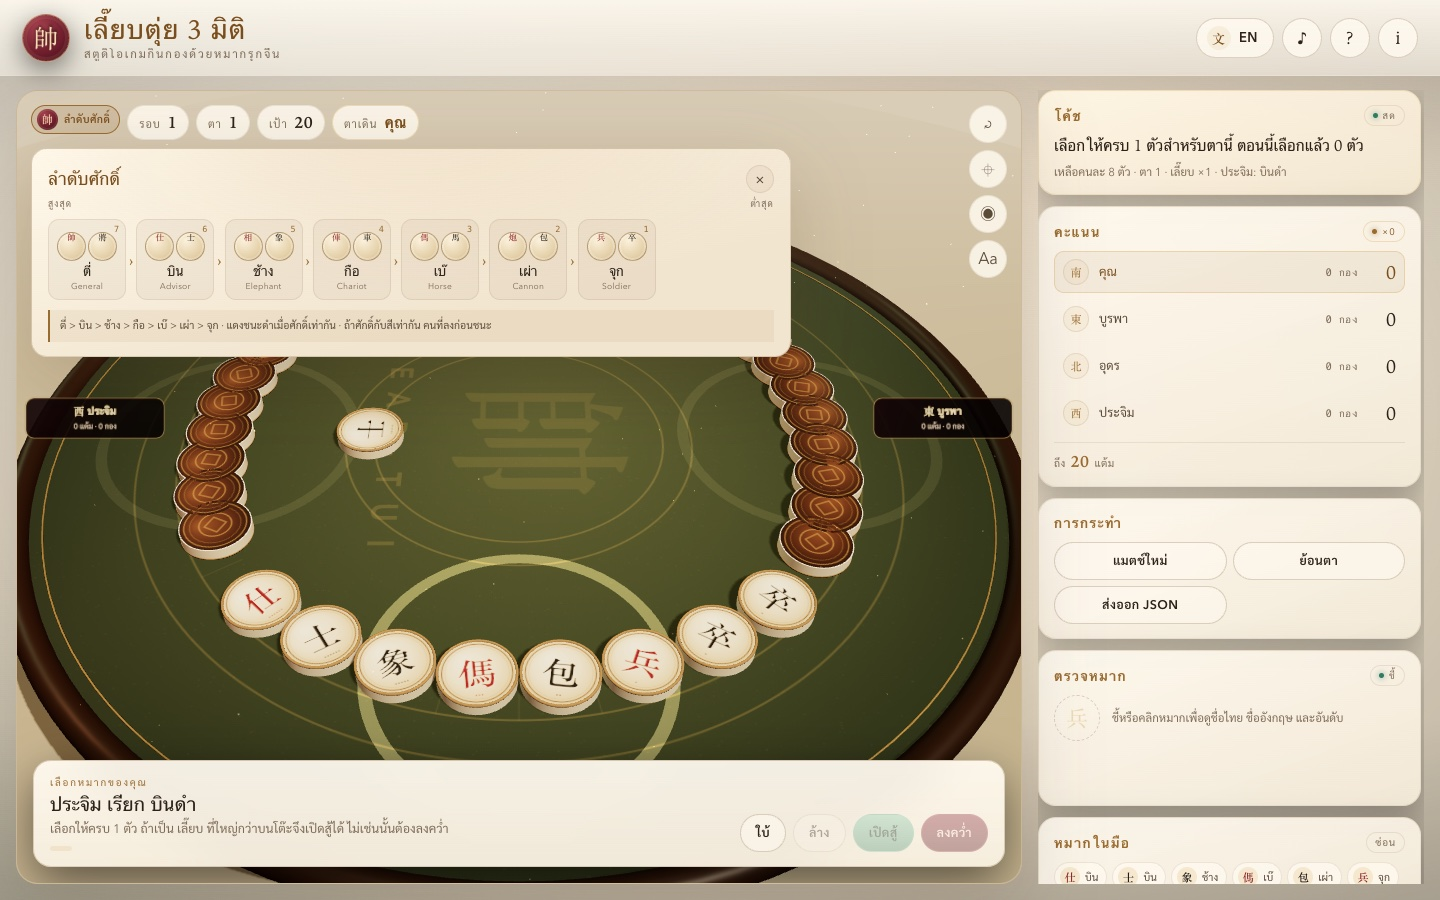
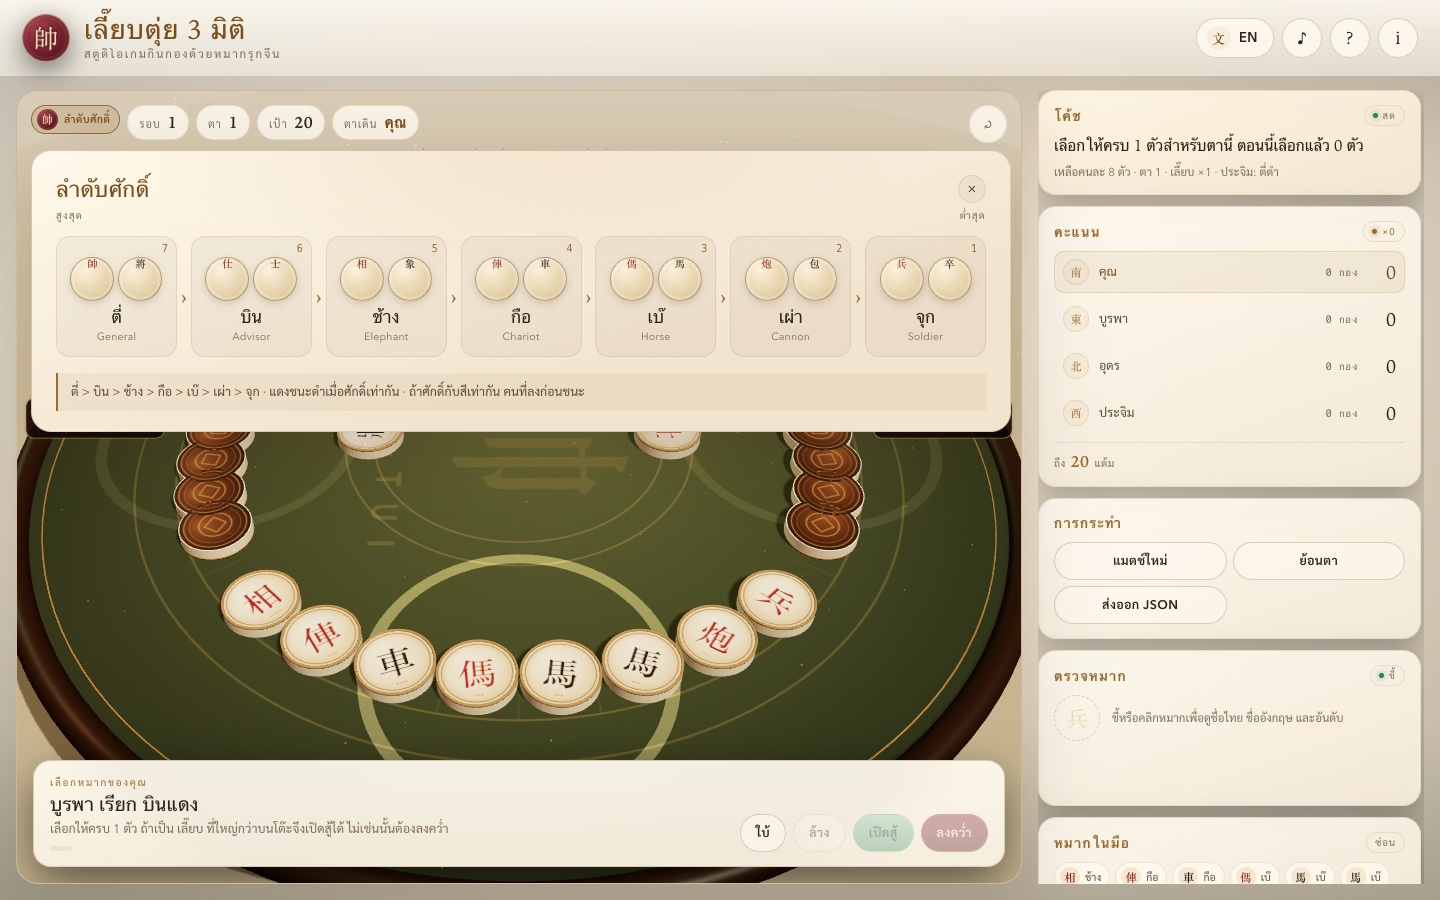
Enlarge rank reference to near-full stage sheet

diff --git a/style.css b/style.css
@@ -913,55 +913,55 @@ a:hover { text-decoration: underline; }
 .rank-reference {
   position: absolute;
   z-index: 14;
-  top: calc(100% + 8px);
+  top: calc(100% + 10px);
   left: 0;
-  width: min(760px, calc(100vw - 48px));
-  max-height: min(70dvh, 520px);
+  width: min(980px, calc(100vw - var(--sidebar-w) - 56px));
+  max-height: min(78dvh, 620px);
   overflow-y: auto;
-  padding: 16px 16px 14px;
+  padding: 22px 24px 20px;
   border: 1px solid var(--line);
-  border-radius: 16px;
+  border-radius: 20px;
   background: var(--modal-bg);
   box-shadow: var(--shadow);
   backdrop-filter: blur(18px);
   pointer-events: auto;
 }
 .rank-ref-head { display: flex; align-items: center; justify-content: space-between; gap: 12px; margin-bottom: 4px; }
-.rank-ref-head h3 { margin: 0; font-family: var(--serif); font-size: calc(17px * var(--fs-scale)); font-weight: 500; color: var(--gold-bright); }
+.rank-ref-head h3 { margin: 0; font-family: var(--serif); font-size: calc(22px * var(--fs-scale)); font-weight: 500; color: var(--gold-bright); }
 .rank-ref-close { width: 28px; height: 28px; border: 1px solid var(--line-soft); border-radius: 50%; background: var(--card-bg); color: var(--ink-dim); font-size: calc(17px * var(--fs-scale)); line-height: 1; cursor: pointer; }
 .rank-ref-close:hover { color: var(--gold-bright); border-color: var(--line); }
-.rank-scale { display: flex; justify-content: space-between; gap: 12px; margin: 2px 0 6px; color: var(--ink-faint); font-size: calc(9px * var(--fs-scale)); letter-spacing: 0.12em; text-transform: uppercase; }
-.rank-steps { display: flex; align-items: stretch; gap: 3px; overflow-x: auto; padding: 3px 0 8px; scrollbar-width: thin; }
+.rank-scale { display: flex; justify-content: space-between; gap: 12px; margin: 4px 0 8px; color: var(--ink-faint); font-size: calc(10px * var(--fs-scale)); letter-spacing: 0.12em; text-transform: uppercase; }
+.rank-steps { display: flex; align-items: stretch; gap: 4px; overflow-x: auto; padding: 5px 0 12px; scrollbar-width: thin; }
 .rank-step {
   position: relative;
-  flex: 0 0 78px;
-  padding: 9px 5px 7px;
+  flex: 1 0 116px;
+  padding: 16px 8px 12px;
   border: 1px solid var(--line-soft);
-  border-radius: 11px;
+  border-radius: 14px;
   background: var(--card-bg);
   text-align: center;
 }
-.rank-step em { position: absolute; top: 4px; right: 6px; color: var(--gold); font-family: var(--mono); font-size: calc(8.5px * var(--fs-scale)); font-style: normal; }
-.rank-tiles { display: flex; justify-content: center; gap: 2px; margin-top: 2px; }
+.rank-step em { position: absolute; top: 6px; right: 8px; color: var(--gold); font-family: var(--mono); font-size: calc(10px * var(--fs-scale)); font-style: normal; }
+.rank-tiles { display: flex; justify-content: center; gap: 4px; margin-top: 2px; }
 .mini-tile {
   display: grid;
   place-items: center;
-  width: 29px;
-  height: 29px;
+  width: 44px;
+  height: 44px;
   border-radius: 50%;
   border: 1px solid rgba(120, 80, 35, 0.4);
   background: radial-gradient(circle at 35% 28%, #fbf1dc, #e4d0a8 65%, #c7aa78);
   font-family: var(--serif);
-  font-size: calc(16px * var(--fs-scale));
+  font-size: calc(24px * var(--fs-scale));
   line-height: 1;
-  box-shadow: inset 0 0 0 2px rgba(255, 255, 255, 0.25);
+  box-shadow: inset 0 0 0 3px rgba(255, 255, 255, 0.25), 0 3px 8px rgba(0, 0, 0, 0.14);
 }
 .mini-tile.red { color: #8d1f24; }
 .mini-tile.black { color: #1d1716; }
-.rank-step b { display: block; margin-top: 4px; font-family: var(--serif); font-size: calc(13px * var(--fs-scale)); font-weight: 500; color: var(--ink); line-height: 1.1; }
-.rank-step span { display: block; margin-top: 1px; color: var(--ink-faint); font-size: calc(8.5px * var(--fs-scale)); letter-spacing: 0.02em; }
-.rank-arrow { align-self: center; color: var(--gold); font-family: var(--serif); font-size: calc(16px * var(--fs-scale)); line-height: 1; }
-.rank-note { margin: 2px 0 0; padding: 8px 10px; border-left: 2px solid var(--gold); background: var(--note-bg); color: var(--ink-dim); font-size: calc(10.5px * var(--fs-scale)); line-height: 1.45; }
+.rank-step b { display: block; margin-top: 7px; font-family: var(--serif); font-size: calc(17px * var(--fs-scale)); font-weight: 500; color: var(--ink); line-height: 1.1; }
+.rank-step span { display: block; margin-top: 2px; color: var(--ink-faint); font-size: calc(10.5px * var(--fs-scale)); letter-spacing: 0.02em; }
+.rank-arrow { align-self: center; color: var(--gold); font-family: var(--serif); font-size: calc(22px * var(--fs-scale)); line-height: 1; }
+.rank-note { margin: 4px 0 0; padding: 10px 13px; border-left: 2px solid var(--gold); background: var(--note-bg); color: var(--ink-dim); font-size: calc(12.5px * var(--fs-scale)); line-height: 1.45; }
 
 /* --------------------------------------------------------------------------
    Modals
@@ -1089,6 +1089,10 @@ a:hover { text-decoration: underline; }
   .sidebar-foot { justify-content: center; }
 }
 
+@media (max-width: 960px) {
+  .rank-reference { width: calc(100vw - 28px); }
+}
+
 @media (max-width: 640px) {
   :root { --topbar-h: 64px; }
   .stage-hint { display: none; }
@@ -1104,10 +1108,11 @@ a:hover { text-decoration: underline; }
   .hud-strip { top: 9px; left: 9px; right: 46px; gap: 5px; flex-wrap: wrap; max-width: calc(100% - 55px); }
   .quick-ref-btn { width: 32px; padding: 0; justify-content: center; }
   .quick-ref-btn > span:last-child { display: none; }
-  .rank-reference { width: calc(100vw - 28px); max-height: 62dvh; padding: 13px 12px 11px; }
-  .rank-steps { display: grid; grid-template-columns: repeat(4, minmax(0, 1fr)); gap: 6px; overflow: visible; }
-  .rank-step { flex-basis: auto; min-width: 0; }
+  .rank-reference { width: calc(100vw - 20px); max-height: 82dvh; padding: 18px 16px 16px; }
+  .rank-steps { display: grid; grid-template-columns: repeat(2, minmax(0, 1fr)); gap: 8px; overflow: visible; }
+  .rank-step { flex-basis: auto; min-width: 0; padding: 14px 8px 12px; }
   .rank-arrow { display: none; }
+  .mini-tile { width: 44px; height: 44px; font-size: calc(24px * var(--fs-scale)); }
   .hud-chip { padding: 4px 8px; font-size: calc(9px * var(--fs-scale)); }
   .hud-chip strong { font-size: calc(12px * var(--fs-scale)); }
   .stage-tools { top: 9px; right: 9px; gap: 5px; }

diff --git a/script.js b/script.js
@@ -7,7 +7,7 @@
 const APP = Object.freeze({
   name: "Leab-Tui 3D",
   fullName: "Leab-Tui 3D — Traditional Xiangqi Trick-Taking Studio",
-  version: "1.3.0",
+  version: "1.3.1",
   format: "leab-tui-3d-save",
   storageKey: "leabtui.match.v1",
   prefsKey: "leabtui.prefs.v1",

diff --git a/STATE.md b/STATE.md
@@ -10,14 +10,14 @@
 | Field | Value |
 | --- | --- |
 | Project status | ✅ Complete, verified and published |
-| App version | `1.3.0` |
+| App version | `1.3.1` |
 | Repository | <https://github.com/somphol/leab-tui-3d> |
 | Live page | <https://somphol.github.io/leab-tui-3d/> (Pages verified, self-test 25/25) |
 | Primary branch | `main` |
 | Build type | Static site; no package manager, no build step |
 | Source files | `index.html`, `style.css`, `script.js` |
-| Source lines | 5,251 |
-| Source size | 234,226 bytes (~229 KB) |
+| Source lines | 5,256 |
+| Source size | 234,471 bytes (~229 KB) |
 | Runtime dependency | Three.js r160 from jsDelivr (pinned) |
 | Storage | `localStorage` + JSON export |
 | Licence | MIT |
@@ -40,6 +40,10 @@ Added **Parchment** (warm ivory UI, olive felt) and **Daybreak** (pale blue-whit
 
 Added a **Ranks** control at the top-left HUD. It opens a pictorial hierarchy of all seven ranks with red and black Hanzi, Thai/English names, rank numbers, highest/lowest markers and the red/earlier-play tie rules. It closes by toggle, close button, `Esc` or outside click, and follows the active theme and language.
 
+## Release 1.3.1 — larger rank sheet
+
+Enlarged the reference to a near-full-stage sheet (980 px desktop) with 44 px tile medallions, 17 px names and a larger note. Phones use a two-column grid so all seven ranks fit without horizontal scrolling.
+
 ## Build timeline
 
 | Milestone | Time (local) | Elapsed |
@@ -56,22 +60,23 @@ Added a **Ranks** control at the top-left HUD. It opens a pictorial hierarchy of
 | **Audio test + chevron removal** | 16:37–16:57 | 20m 0s |
 | **Bright themes + verification** | 16:57–17:07 | 10m 25s |
 | **Rank quick reference** | 17:22–17:32 | 10m 31s |
+| **Rank sheet enlargement** | 17:32–17:40 | 8m 0s |
 
-**Measured active build estimate:** **~2h 5m** across the initial build, display/audio update, chevron removal, bright themes and the rank quick reference. Session wall clock is much longer because it includes idle gaps between requests.
+**Measured active build estimate:** **~2h 13m** across the initial build, display/audio update, chevron removal, bright themes, the rank quick reference and its enlargement. Session wall clock is much longer because it includes idle gaps between requests.
 
 ## Token consumption
 
-Measured from the OpenCode session record `ses_e5a5e419dffedJGEsMy3mKV3ey` at 2026-11-04 17:32:31 (-08:00), including display settings, five themes, the audio rebalance, the chevron removal and the rank quick reference:
+Measured from the OpenCode session record `ses_e5a5e419dffedJGEsMy3mKV3ey` at 2026-11-04 17:40:53 (-08:00), including display settings, five themes, the audio rebalance, the chevron removal and the enlarged rank reference:
 
 | Metric | Tokens |
 | --- | ---: |
-| Input | 522,500 |
-| Output | 211,891 |
-| Reasoning | 165,755 |
-| **Total (input + output + reasoning)** | **900,146** |
-| Cache read | 90,081,152 |
+| Input | 536,022 |
+| Output | 217,402 |
+| Reasoning | 171,036 |
+| **Total (input + output + reasoning)** | **924,460** |
+| Cache read | 96,474,240 |
 | Cache write | 1,639 |
-| **Total including cache** | **90,982,937** |
+| **Total including cache** | **97,400,339** |
 | Cost | $0.00 (as reported) |
 
 The cache figures describe context reuse, not additional generated work. They are reported separately so the headline number stays comparable to a normal token count. These are session totals. The final state-file commit and Pages rebuild add a small number of tokens; the session ID allows re-measurement from `opencode.db`.

diff --git a/CHANGELOG.md b/CHANGELOG.md
@@ -2,6 +2,14 @@
 
 All notable changes to Leab-Tui 3D are documented here. The format follows [Keep a Changelog](https://keepachangelog.com/en/1.1.0/) and the project uses [Semantic Versioning](https://semver.org/).
 
+## [1.3.1] — 2026-11-04
+
+### Changed
+
+- Enlarged the rank-order reference to a near-full-stage sheet (980 px on desktop), with 44 px tile medallions, 17 px names, larger rank numbers and a larger tie note.
+- On phones the ladder now uses a two-column grid so all seven ranks are visible at once.
+- Screenshots and galleries regenerated for the larger sheet.
+
 ## [1.3.0] — 2026-11-04
 
 ### Added

diff --git a/README.md b/README.md
@@ -1,7 +1,7 @@
 # Leab-Tui 3D — Traditional Xiangqi Trick-Taking Studio
 
 [![Live demo](https://img.shields.io/badge/live-demo-d8b26b)](https://somphol.github.io/leab-tui-3d/)
-[![Release](https://img.shields.io/badge/release-v1.3.0-7b2434)](CHANGELOG.md)
+[![Release](https://img.shields.io/badge/release-v1.3.1-7b2434)](CHANGELOG.md)
 [![License: MIT](https://img.shields.io/badge/license-MIT-brightgreen)](LICENSE)
 [![No build](https://img.shields.io/badge/build-none-lightgrey)](docs/ARCHITECTURE.md)
 [![Three.js r160](https://img.shields.io/badge/three.js-r160-79c3a3)](https://threejs.org/)
